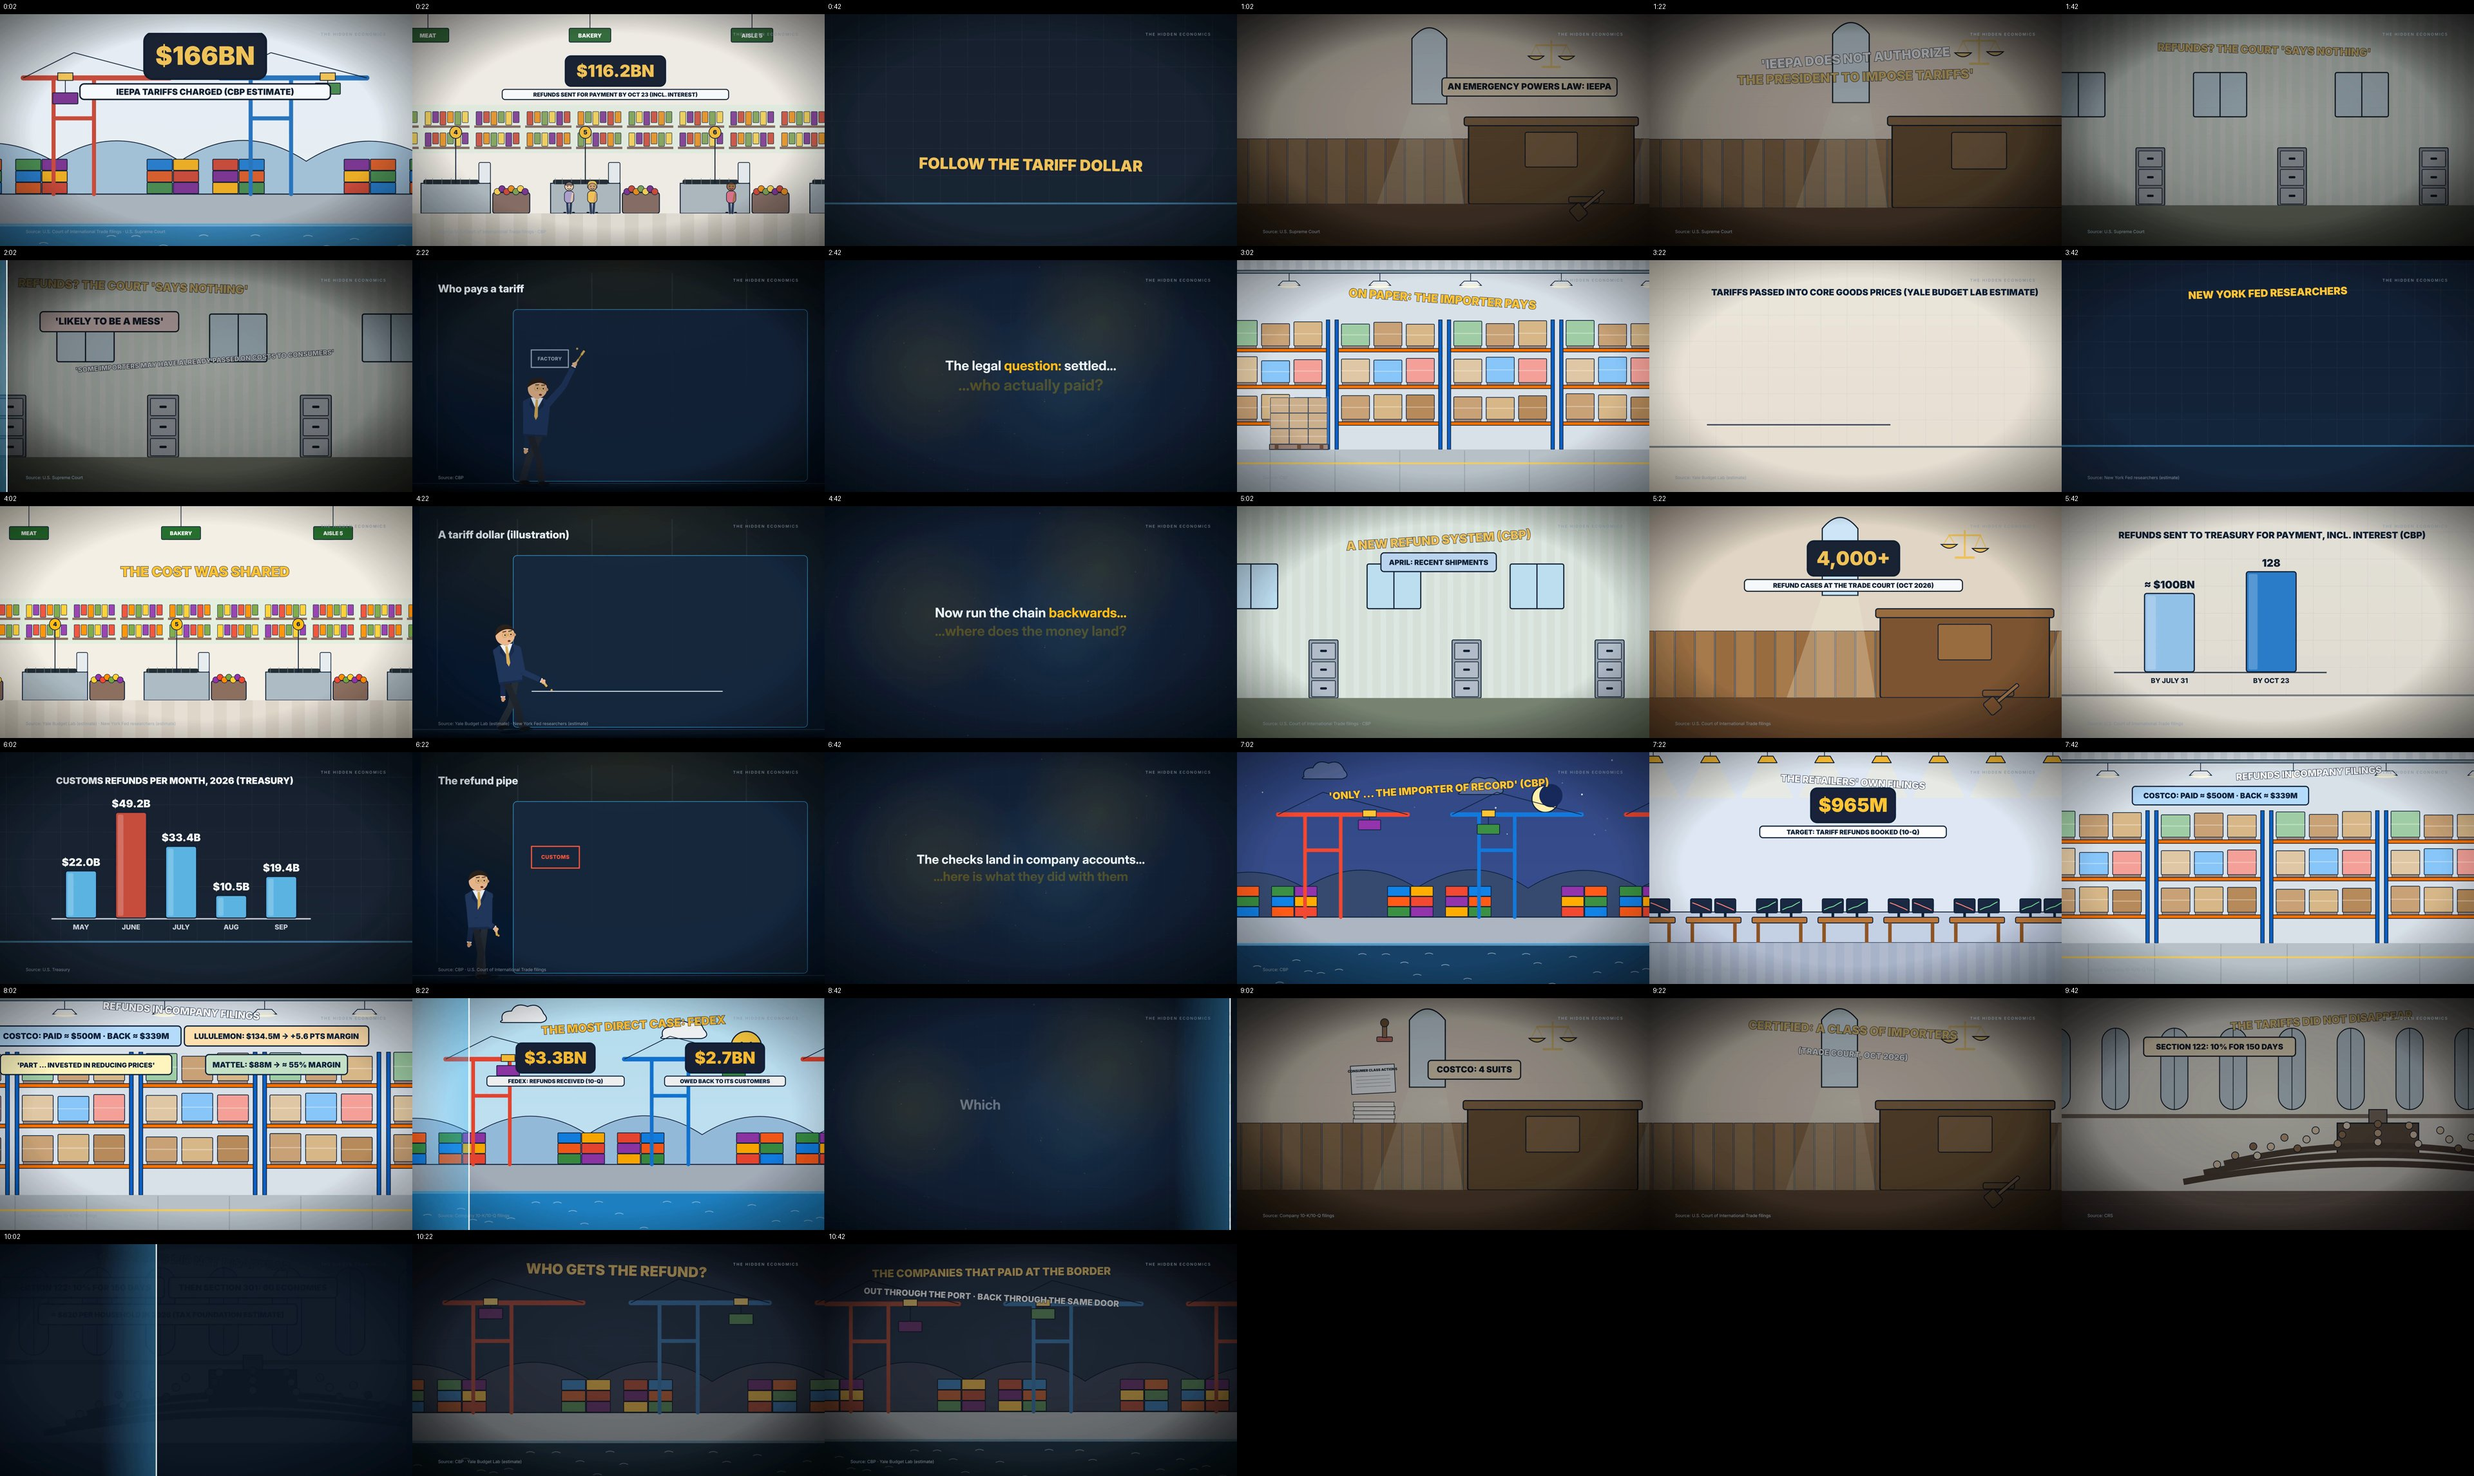
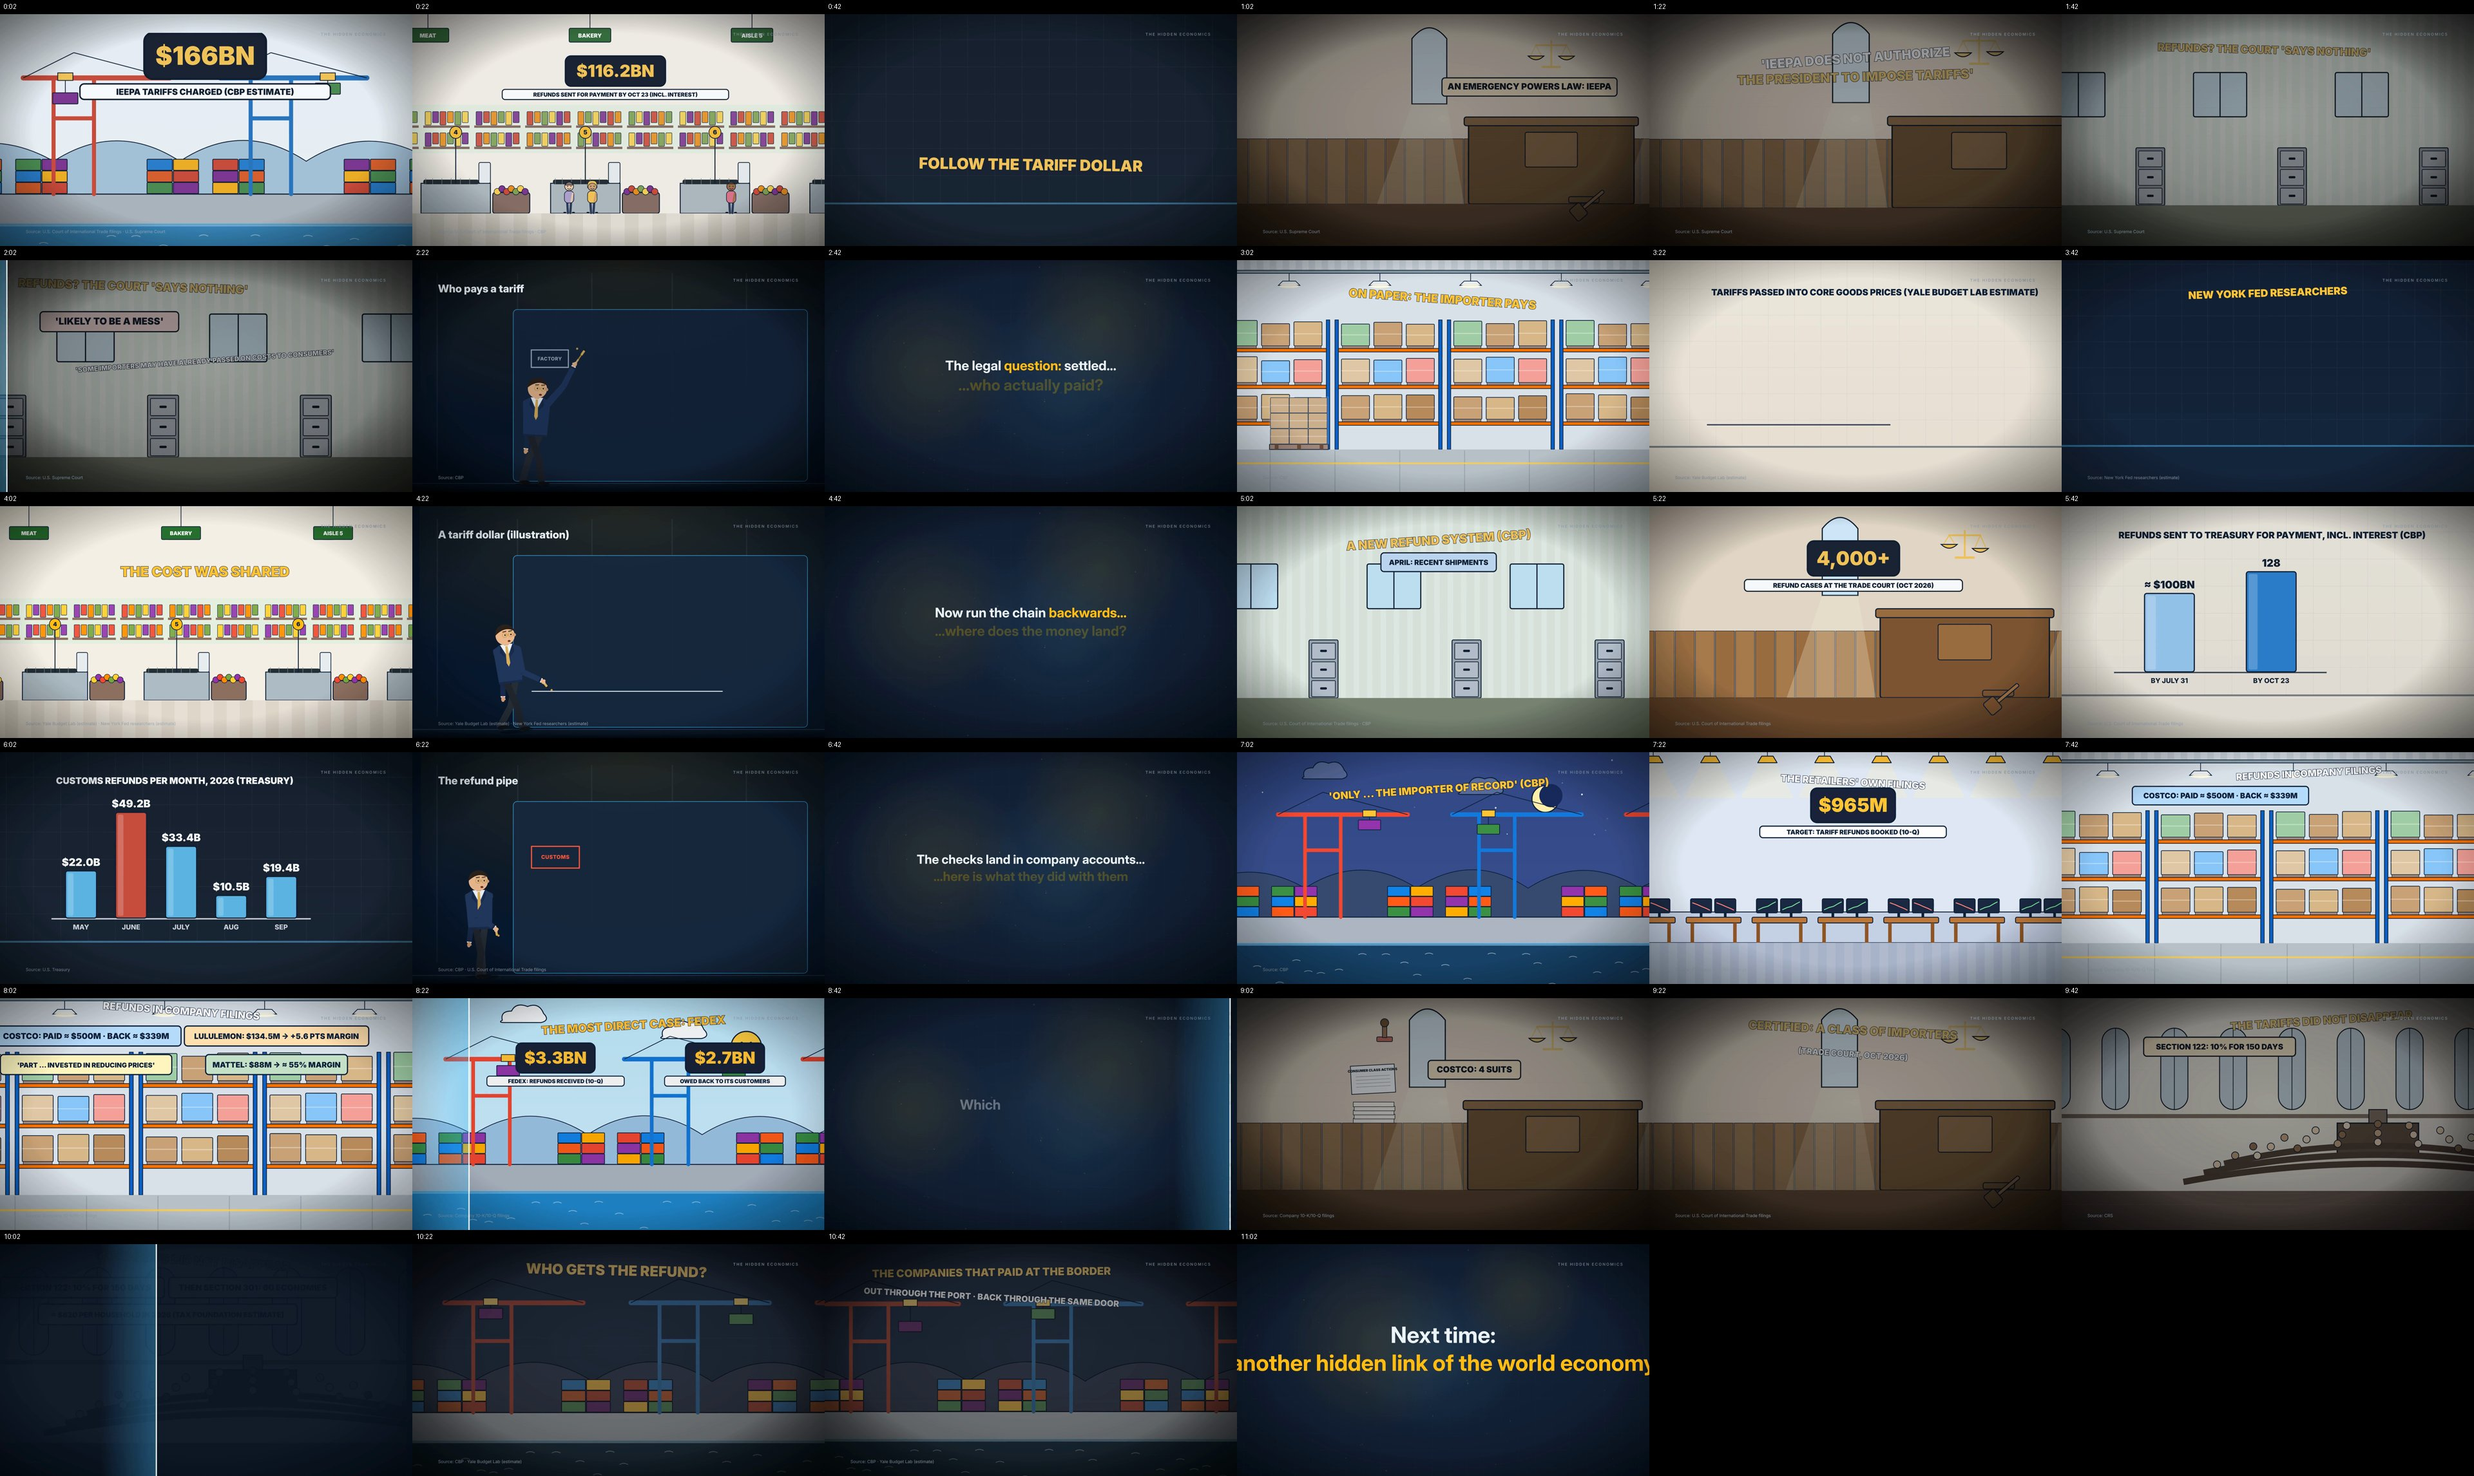
Ep 41 tariff re-render: post-processing outputs
Claude-Session: https://claude.ai/code/session_014jUfN7raNXxtX19HjW58d3

Changed region(s): [[0.5, 0.8364, 0.6875, 1.0]]

diff --git a/reports/tariff_quality_report.md b/reports/tariff_quality_report.md
@@ -2,35 +2,34 @@
 
 | Check | Result | Detail |
 |---|---|---|
-| File exists | PASS | /home/user/YouTube/output/who-actually-gets-the-tariff-refund/documentary/who-actually-gets-the-tariff-refund--documentary.mp4 (178.6 MB) |
+| File exists | PASS | /home/user/YouTube/output/who-actually-gets-the-tariff-refund/documentary/who-actually-gets-the-tariff-refund--documentary.mp4 (182.5 MB) |
 | Resolution 1920x1080 | PASS | 1920x1080 |
 | H.264 video | PASS | h264 High, yuv420p, 30/1 fps |
 | AAC audio | PASS | aac 48000 Hz, 2 ch |
-| Duration 11-13:20 min (channel standard 660-800 s) | FAIL | 654.93 s (10:54) |
-| English narration | FAIL | OpenAI gpt-4o-mini-tts 'ash', English script; QC errors: 1 |
-| Caption/voice sync | PASS | 304 cues; median cue-start offset 0.04 s, p90 0.33 s; 100% of speech captioned |
+| Duration 11-13:20 min (channel standard 660-800 s) | PASS | 666.80 s (11:06) |
+| English narration | PASS | OpenAI gpt-4o-mini-tts 'ash', English script; QC errors: 0 |
+| Caption/voice sync | PASS | 311 cues; median cue-start offset 0.04 s, p90 0.33 s; 100% of speech captioned |
 | No black gaps (>1 s) | PASS | none |
 | No frozen picture (>5 s) | PASS | none |
 | Licensed assets only | PASS | every scene asset is on the licence allowlist (assets/manifest.yaml) |
 
-- Loudness: -16.1 LUFS integrated, true peak -4.1 dBFS
+- Loudness: -16.1 LUFS integrated, true peak -4.0 dBFS
 - Scenes: 41; types: act_title x5, channel_intro x1, end_card x1, engine_cartoon x25, engine_draw x5, kinetic_text x4
-- Average scene length: 16.0 s; act cards are music-only.
+- Average scene length: 16.3 s; act cards are music-only.
 
 ## Pipeline QC report
 
 # QC report: who-actually-gets-the-tariff-refund / documentary (long_16x9)
 
-- Runtime: **654.93 s**
-- Video: 1920x1080 @ 30/1 h264, audio aac 48000 Hz, 178.6 MB
-- Loudness: -16.1 LUFS integrated, true peak -4.1 dBFS
-- Errors: **1**, warnings: **66**
-- Technical QC passed: **False**
+- Runtime: **666.8 s**
+- Video: 1920x1080 @ 30/1 h264, audio aac 48000 Hz, 182.5 MB
+- Loudness: -16.1 LUFS integrated, true peak -4.0 dBFS
+- Errors: **0**, warnings: **66**
+- Technical QC passed: **True**
 - Publishable (no unverified claims): **False**
 
 ## Issues
 
-- [ERROR] (timing) Runtime 654.9s outside target 660-800s
 - [WARNING] (timing) Segment h_promise pace 187 wpm (numerals count as one word)
 - [WARNING] (timing) Segment m1_case pace 118 wpm (numerals count as one word)
 - [WARNING] (timing) Segment m3_transition pace 193 wpm (numerals count as one word)

diff --git a/reports/tariff_cost_report.md b/reports/tariff_cost_report.md
@@ -3,11 +3,11 @@
 ## Narration (the only paid component)
 
 - Provider / model / voice: OpenAI `gpt-4o-mini-tts`, voice `ash`, unit `paragraph` (one request per script segment), existing integration (`hiddeneco/tts/providers.py`).
-- Requests: 35 (each a successful synthesis; cached audio is never re-billed).
-- Characters sent: 8,498. Audio produced: 593.1 s (9.9 min).
-- Estimated cost (configured conservative rate US$0.03/1k chars): **US$0.2549**.
-- Cross-check with OpenAI's published token pricing for gpt-4o-mini-tts (US$0.60 per 1M text-input tokens, US$12 per 1M audio-output tokens, about US$0.015 per minute of audio): about **US$0.150**.
-- Episode cap: **US$1.00** cumulative (enforced before every request by `hiddeneco/budget.py`). Remaining under the cap: US$0.7451.
+- Requests: 36 (each a successful synthesis; cached audio is never re-billed).
+- Characters sent: 9,067. Audio produced: 605.0 s (10.1 min).
+- Estimated cost (configured conservative rate US$0.03/1k chars): **US$0.2720**.
+- Cross-check with OpenAI's published token pricing for gpt-4o-mini-tts (US$0.60 per 1M text-input tokens, US$12 per 1M audio-output tokens, about US$0.015 per minute of audio): about **US$0.153**.
+- Episode cap: **US$1.00** cumulative (enforced before every request by `hiddeneco/budget.py`). Remaining under the cap: US$0.7280.
 - Billing evidence: the local ledger `output/who-actually-gets-the-tariff-refund/paid_spend.json` (timestamp, characters and estimated USD per request). The OpenAI usage/costs API was queried and refused with 403 (the project key lacks the `api.usage.read` scope), so no invoice-level figure is available here; check https://platform.openai.com/usage for the authoritative amount.
 
 ## Everything else
@@ -20,6 +20,6 @@
 | Music and sound effects | Generated by code (`hiddeneco/audio.py`) | US$0 |
 | Fonts | Inter (SIL OFL 1.1) | US$0 |
 
-**Total paid: US$0.2549** (estimate; cap US$1.00). No other paid service was called. Nothing was published.
+**Total paid: US$0.2720** (estimate; cap US$1.00). No other paid service was called. Nothing was published.
 
 Licence note: Remotion is free for individuals and companies with up to three employees; larger companies need a Remotion company licence (https://www.remotion.dev/license).

diff --git a/scripts/tariff_documentary.md b/scripts/tariff_documentary.md
@@ -244,7 +244,7 @@ Let me draw the loop. Tariffs go in at the port. Prices rise on the shelf. The c
 
 ## payoff - The lesson
 
-So who actually gets the tariff refund? The companies that paid at the border. Not because anyone planned it that way, but because a tariff is legally a tax on the importer, even when the shopper ends up paying much of it. The money left through the port, and it is coming back through the same door. What each company does with it next is the part you can still watch.
+So who actually gets the tariff refund? The companies that paid at the border. Not because anyone planned it that way, but because a tariff is legally a tax on the importer, even when the shopper ends up paying much of it. The money left through the port, and it is coming back through the same door. What each company does with it next is the part you can still watch. So the next time a price tag rises because of a tariff, remember where that money really travels. It leaves through your receipt, and if it ever comes back, it comes back to whoever paid at the port.
 
 > `who` [source_located] CBP: 'CBP is only able to refund IEEPA duties to the Importer of Record or the Notify Party (designated on CBP Form 4811)'. No government consumer refund. CIT certified (Oct 8) a class of importers of record who paid IEEPA duties Feb 1, 2025 - Feb 19, 2026. Consumer suits (ALLEGATIONS): Costco 10-K lists four class actions 'seeking a refund of tariffs ... passed on to members through higher prices'; FedEx 10-Q: fourteen class actions, thirteen consolidated; Mattel 10-Q: three. (sources: cbp, cit, filings)  
 > `paid` [source_located] ESTIMATES. Yale Budget Lab: 'Implied passthrough of tariffs to imported consumer goods prices ranges from roughly 46–86% for core goods'. New York Fed (Liberty Street, Oct 2026): 'nearly 90 percent of the 2025 tariffs were passed through to U.S. import prices'; consumer prices respond more slowly. (sources: yale, nyfed)  

diff --git a/storyboards/tariff_storyboard.md b/storyboards/tariff_storyboard.md
@@ -1,6 +1,6 @@
 # Storyboard - Who Actually Gets the $166 Billion Tariff Refund?
 
-Total 10:55 (654.9 s), 41 scenes. Timestamps come from the narration timing of the build that produced `timeline.json`. Engine: Remotion (React + SVG), 1920x1080, 30 fps.
+Total 11:07 (666.8 s), 41 scenes. Timestamps come from the narration timing of the build that produced `timeline.json`. Engine: Remotion (React + SVG), 1920x1080, 30 fps.
 
 | # | Start | Dur | Scene | Type | Animation | Narration (start) | Sources |
 |---|---|---|---|---|---|---|---|
@@ -43,5 +43,5 @@ Total 10:55 (654.9 s), 41 scenes. Timestamps come from the narration timing of t
 | 37 | 9:11 | 17.9s | `s36_class` | engine_cartoon |  | The one class action a court has actually certified so far is different. In October twenty... | cit |
 | 38 | 9:29 | 33.4s | `s37_after` | engine_cartoon |  | Meanwhile, the tariffs did not simply disappear. Days after the ruling, the President used... | crs |
 | 39 | 10:02 | 17.2s | `p38_loop` | engine_draw |  | Let me draw the loop. Tariffs go in at the port. Prices rise on the shelf. The court says ... | crs, cit |
-| 40 | 10:19 | 24.7s | `s39_payoff` | engine_cartoon |  | So who actually gets the tariff refund? The companies that paid at the border. Not because... | cbp, yale |
-| 41 | 10:44 | 10.9s | `s40_end` | end_card | Closing words land; brand line draws | Next time on The Hidden Economics, we follow the money behind another hidden link of the w... | - |
+| 40 | 10:19 | 36.6s | `s39_payoff` | engine_cartoon |  | So who actually gets the tariff refund? The companies that paid at the border. Not because... | cbp, yale |
+| 41 | 10:56 | 10.9s | `s40_end` | end_card | Closing words land; brand line draws | Next time on The Hidden Economics, we follow the money behind another hidden link of the w... | - |

diff --git a/research/tariff_sources.md b/research/tariff_sources.md
@@ -1,6 +1,6 @@
 # Research dossier - Who Actually Gets the $166 Billion Tariff Refund?
 
-Generated 2026-11-11T01:05:24+00:00. Status ladder: data_derived and human_verified are publishable; source_located means located by web research, not yet read in full by a named reviewer. Reference period = the year/date the statistic describes.
+Generated 2026-11-11T05:43:01+00:00. Status ladder: data_derived and human_verified are publishable; source_located means located by web research, not yet read in full by a named reviewer. Reference period = the year/date the statistic describes.
 
 ## Sources
 
